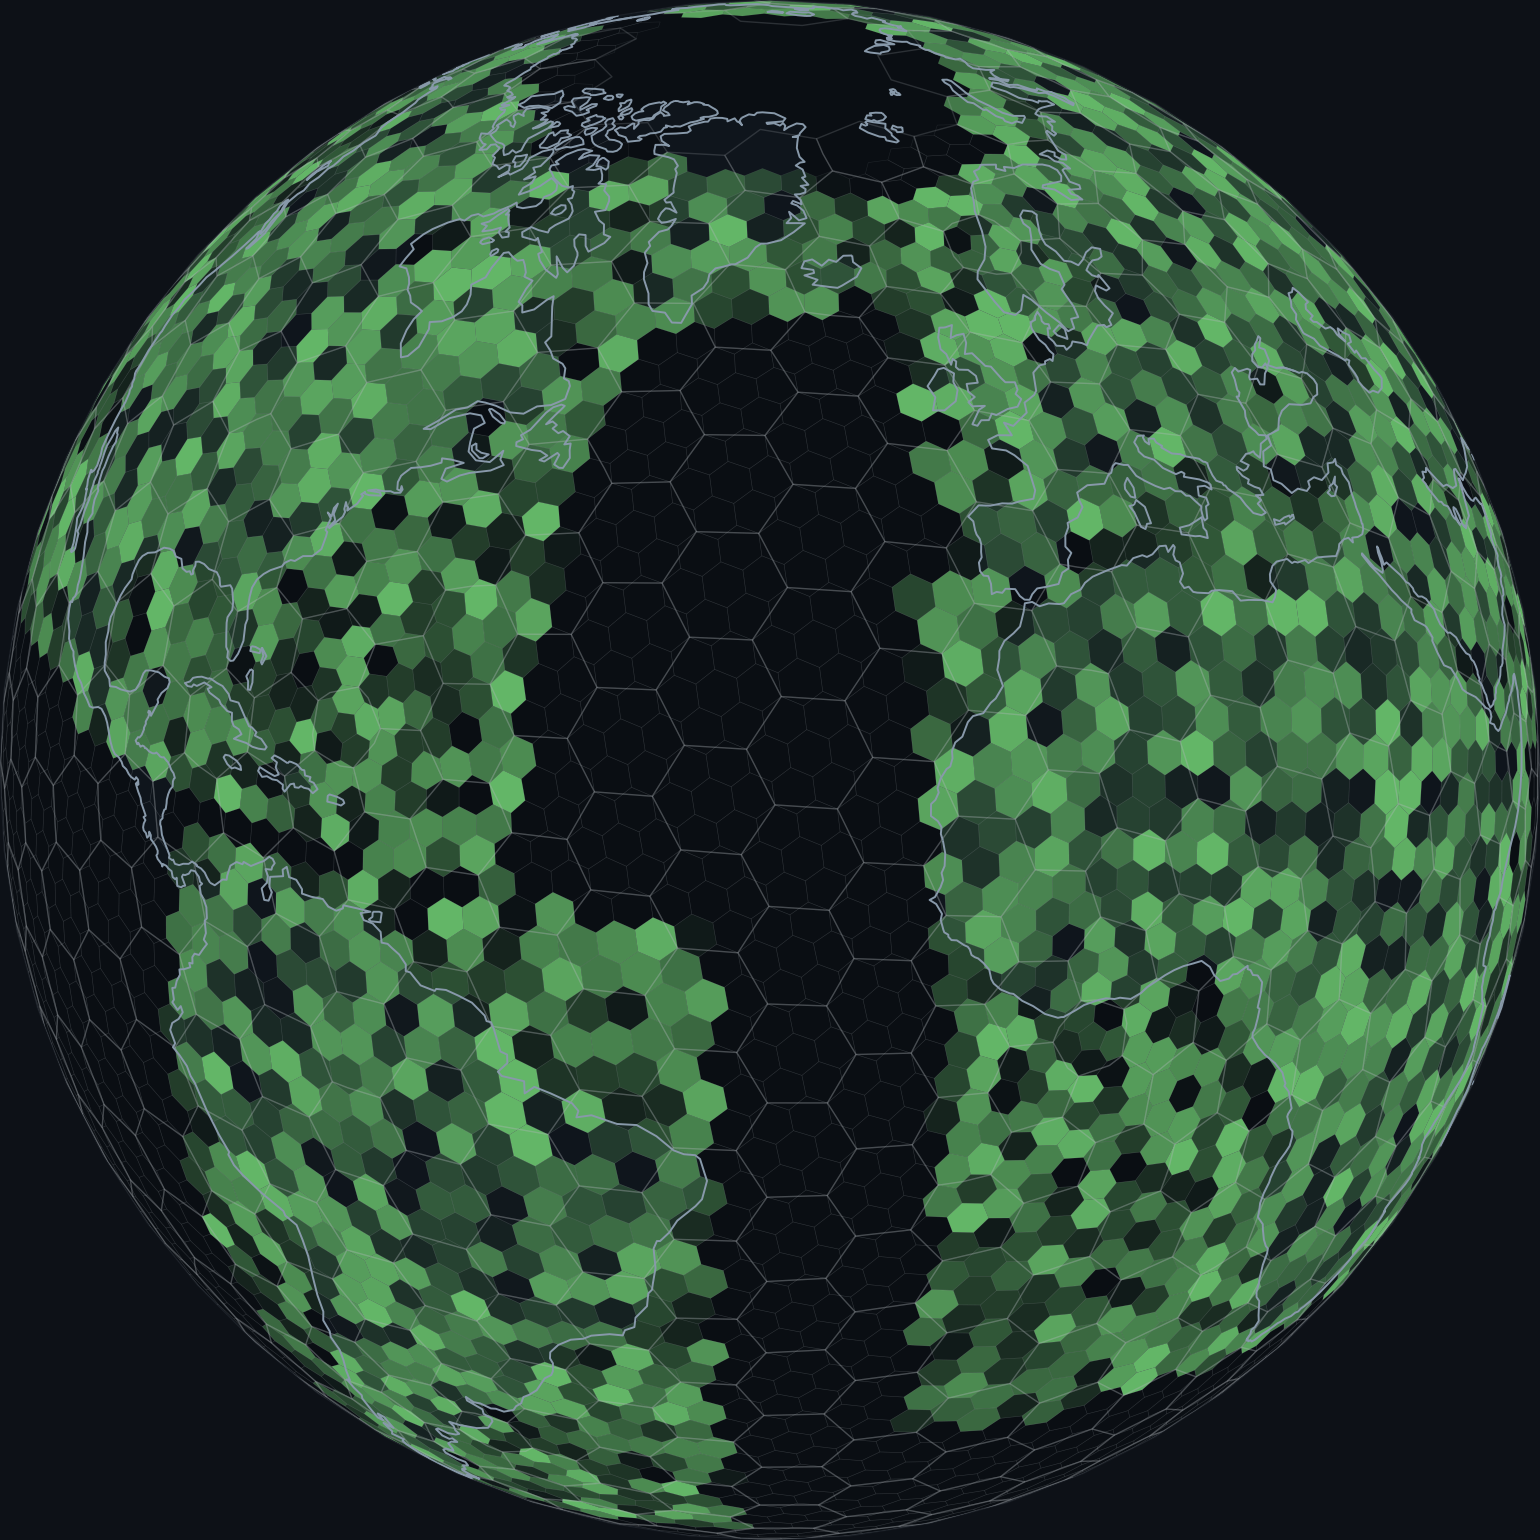
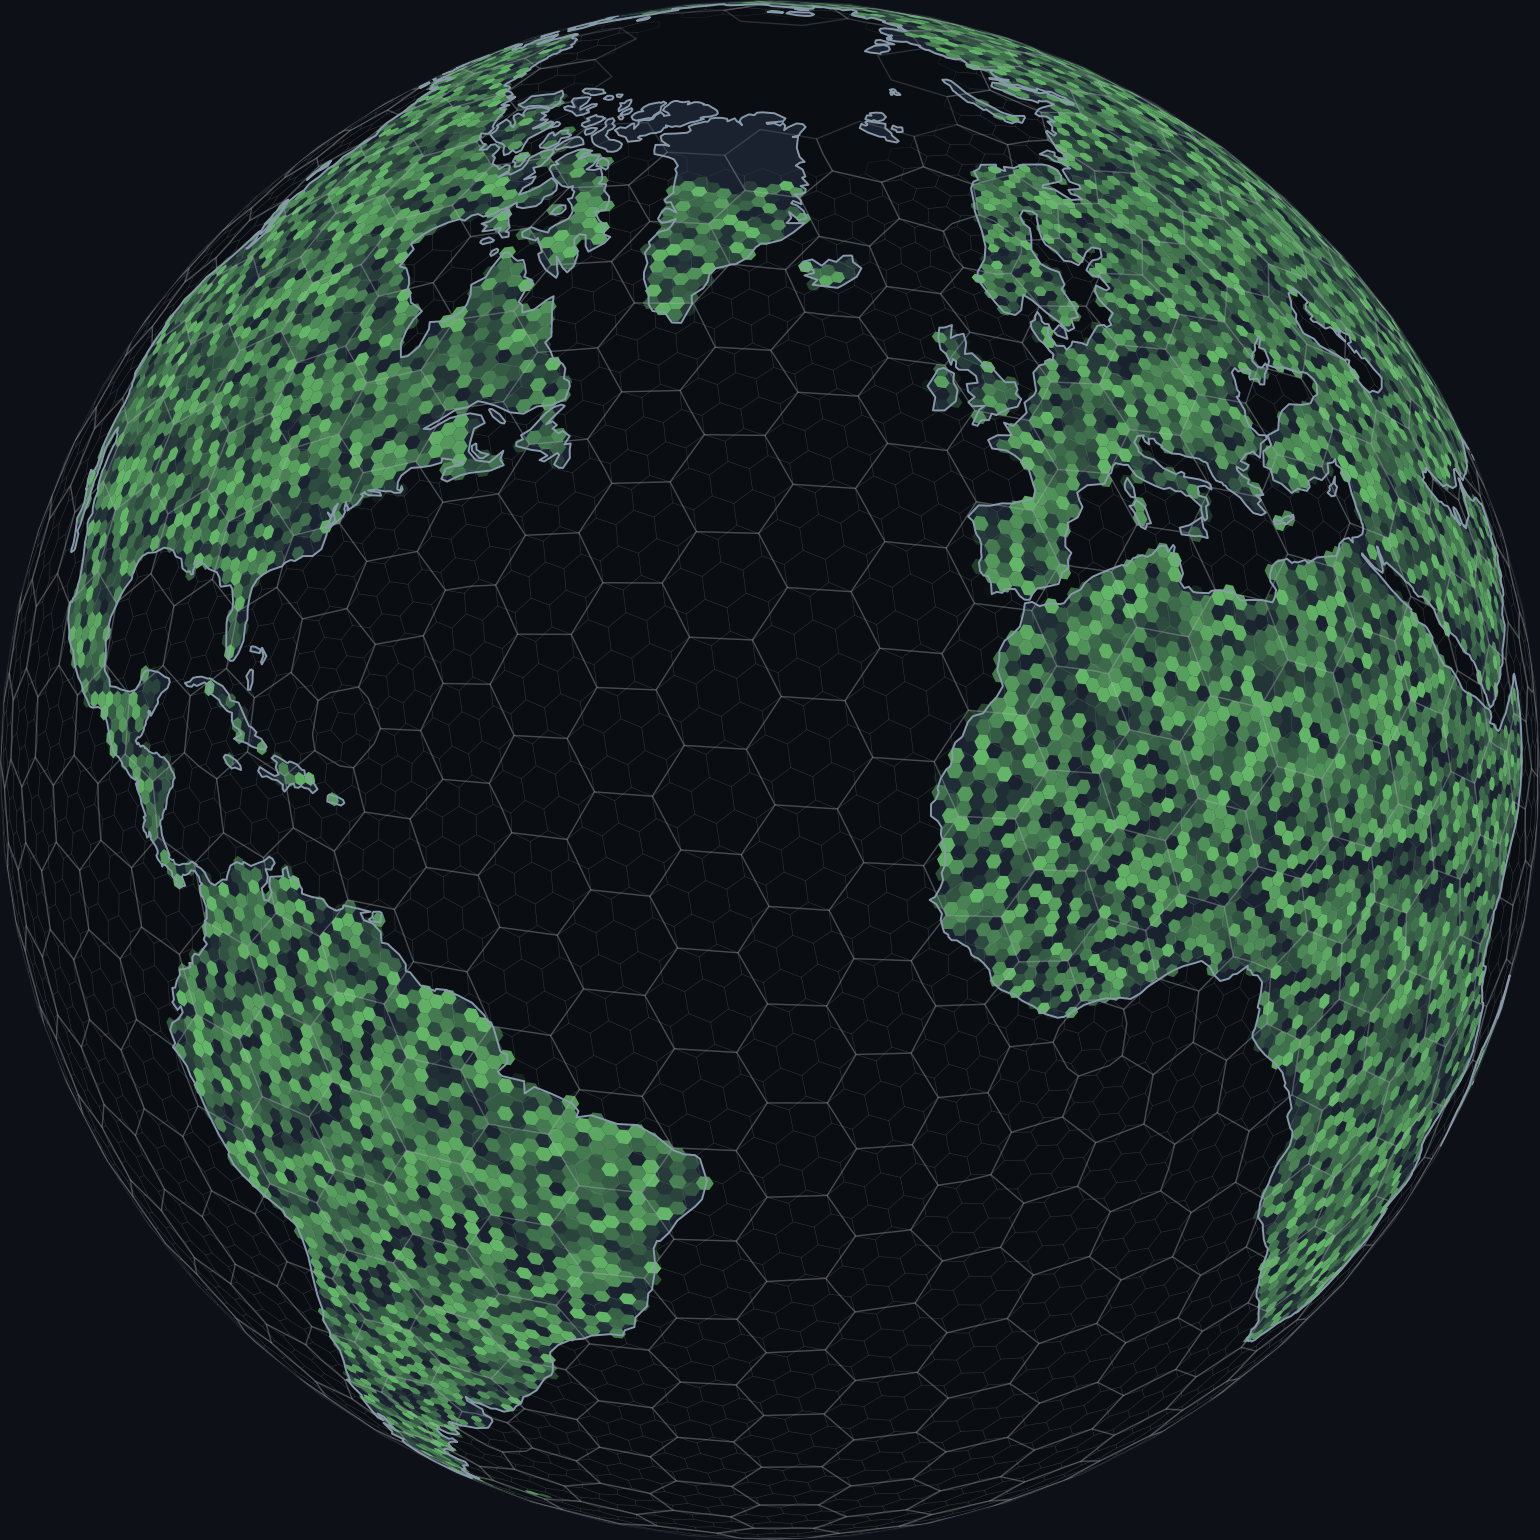
H3 globe: real Natural Earth land geometry, res 3 fills
- Replaced bounding-box is_land() with shapely point-in-polygon
  against Natural Earth 110m land polygons
- Green fills at res 3 for fine coastline-following granularity
- Land base color #1a2230 contrasts against ocean #0a0e13
- Greenland and islands now correctly distinguished from ocean

diff --git a/scripts/h3_globe.py b/scripts/h3_globe.py
@@ -1,9 +1,9 @@
 #!/usr/bin/env python3
 """Generate an H3 hexagonal globe visualization — mid-takeover look.
 
-High-contrast continental map underneath. Green hex fills ONLY on land
-cells, random opacity 0-1. Silver/gray hex borders everywhere.
-Uses matplotlib + cartopy.
+Uses actual Natural Earth land geometry for accurate coastline-following
+fills. Green hex fills ONLY on cells whose centers fall within real land
+polygons. Random opacity 0-1. Silver/gray hex borders everywhere.
 """
 
 import h3
@@ -12,10 +12,14 @@ import matplotlib.pyplot as plt
 from matplotlib.collections import PolyCollection
 import cartopy.crs as ccrs
 import cartopy.feature as cfeature
+from cartopy.io import shapereader
+from shapely.geometry import Point
+from shapely.ops import unary_union
+from shapely.prepared import prep
 from pathlib import Path
 
 BG_COLOR = '#0d1117'
-LAND_COLOR = '#0f151c'
+LAND_COLOR = '#1a2230'   # noticeably lighter than ocean
 OCEAN_COLOR = '#0a0e13'
 OUTPUT_DIR = Path(__file__).parent.parent / 'book' / 'assets' / 'figures'
 
@@ -25,35 +29,24 @@ PROJ = ccrs.Orthographic(central_longitude=-30, central_latitude=25)
 SRC = ccrs.PlateCarree()
 
 
-def is_land(lat, lon):
-    """Rough land detection using continental bounding boxes."""
-    regions = [
-        (15, 72, -170, -50),   # North America
-        (-56, 13, -82, -34),   # South America
-        (35, 72, -12, 45),     # Europe
-        (-35, 37, -18, 52),    # Africa
-        (5, 75, 45, 180),      # Asia (east)
-        (-45, -10, 112, 155),  # Australia
-        (5, 35, 68, 98),       # India/SE Asia
-        (30, 46, 128, 146),    # Japan/Korea
-        (-8, 6, 95, 141),      # Indonesia
-        (12, 42, 32, 63),      # Middle East
-        (60, 84, -73, -12),    # Greenland
-    ]
-    for lat_lo, lat_hi, lon_lo, lon_hi in regions:
-        if lat_lo < lat < lat_hi and lon_lo < lon < lon_hi:
-            return True
-    return False
+def build_land_geometry():
+    """Load Natural Earth land polygons and build a prepared geometry for fast lookup."""
+    shpfile = shapereader.natural_earth(resolution='110m', category='physical', name='land')
+    reader = shapereader.Reader(shpfile)
+    land_geom = unary_union(list(reader.geometries()))
+    return prep(land_geom)
 
 
-def collect_cells(res, step):
-    """Collect H3 cells, classified as land or ocean."""
+def collect_cells(res, step, land_prep):
+    """Collect H3 cells, classified using actual land geometry."""
     land_cells = set()
     ocean_cells = set()
     for lat in np.arange(-70, 75, step):
         for lon in np.arange(-180, 180, step):
             cell = h3.latlng_to_cell(lat, lon, res)
-            if is_land(lat, lon):
+            # Check cell center against real land polygons
+            clat, clon = h3.cell_to_latlng(cell)
+            if land_prep.contains(Point(clon, clat)):
                 land_cells.add(cell)
             else:
                 ocean_cells.add(cell)
@@ -76,6 +69,9 @@ def cell_to_xy(cell):
 
 
 def generate_globe():
+    print("Loading land geometry...")
+    land_prep = build_land_geometry()
+
     fig = plt.figure(figsize=(10, 10), facecolor=BG_COLOR)
     ax = fig.add_subplot(1, 1, 1, projection=PROJ, facecolor=BG_COLOR)
     ax.set_global()
@@ -88,20 +84,23 @@ def generate_globe():
     ax.add_feature(cfeature.OCEAN, facecolor=OCEAN_COLOR, zorder=0)
     ax.add_feature(cfeature.LAND, facecolor=LAND_COLOR, edgecolor='none', zorder=1)
 
-    # --- Collect cells ---
-    land1, ocean1 = collect_cells(res=1, step=4)
-    land2, ocean2 = collect_cells(res=2, step=2)
+    # --- Collect cells using real land geometry ---
+    land1, ocean1 = collect_cells(res=1, step=4, land_prep=land_prep)
+    land2, ocean2 = collect_cells(res=2, step=2, land_prep=land_prep)
+    # Res 3 for fine-grained land fills
+    land3, ocean3 = collect_cells(res=3, step=1.0, land_prep=land_prep)
     all_res1 = land1 | ocean1
     all_res2 = land2 | ocean2
 
     print(f"  Res 1: {len(land1)} land, {len(ocean1)} ocean")
     print(f"  Res 2: {len(land2)} land, {len(ocean2)} ocean")
+    print(f"  Res 3: {len(land3)} land, {len(ocean3)} ocean")
 
-    # --- Green fills: LAND CELLS ONLY, random opacity 0-1 ---
+    # --- Green fills: res 3 LAND CELLS ONLY, random opacity 0-1 ---
     NBUCKETS = 20
     fill_buckets = {}
 
-    for cell in land2:
+    for cell in land3:
         xy = cell_to_xy(cell)
         if xy is None:
             continue
@@ -121,7 +120,7 @@ def generate_globe():
             zorder=2,
         ))
 
-    # --- Coastlines ON TOP — bright enough to see ---
+    # --- Coastlines ON TOP — bright enough to contrast ---
     ax.add_feature(cfeature.COASTLINE, edgecolor='#8899aa', linewidth=0.7, zorder=5)
 
     # --- Silver/gray borders ---
